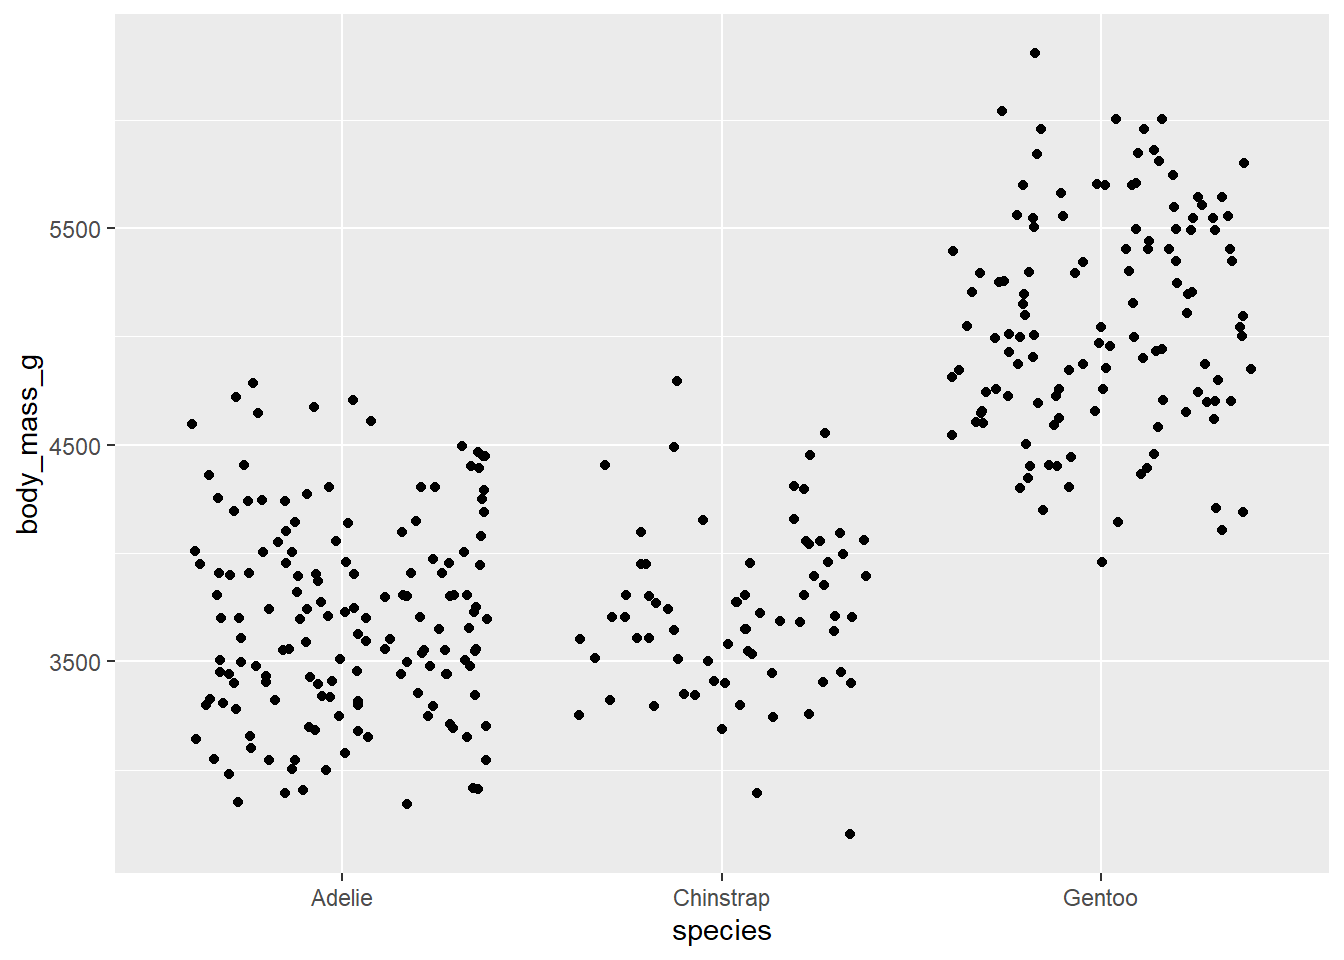
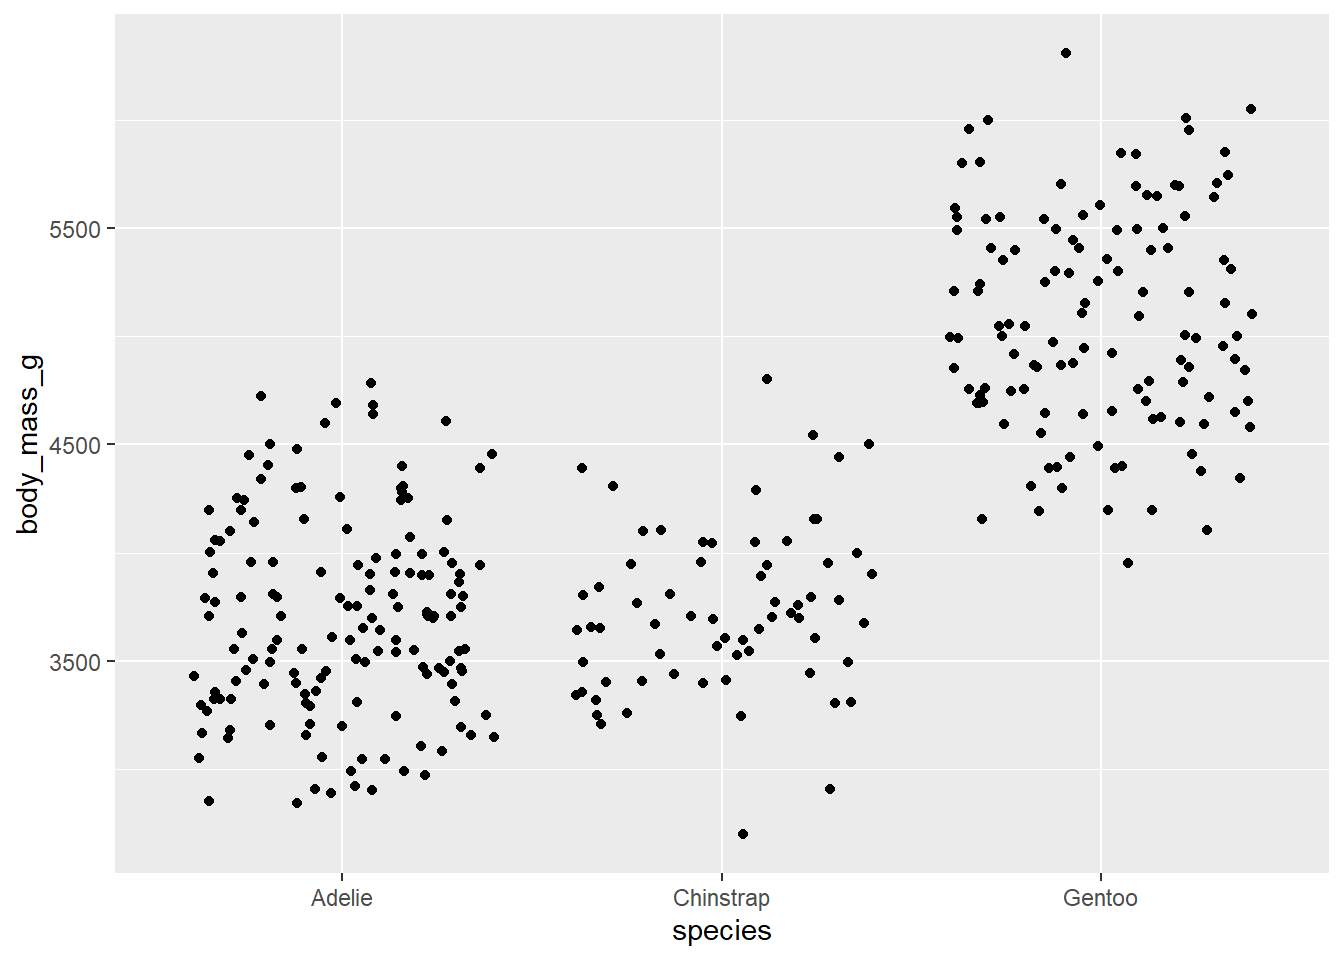
typo

diff --git a/docs/about.html b/docs/about.html
@@ -93,16 +93,12 @@ ul.task-list li input[type="checkbox"] {
           <div class="collapse navbar-collapse" id="navbarCollapse">
             <ul class="navbar-nav navbar-nav-scroll me-auto">
   <li class="nav-item">
-    <a class="nav-link" href="./index.html"> 
-<span class="menu-text">Home</span></a>
+    <a class="nav-link" href="./ggplot_exploration.html"> 
+<span class="menu-text">Palmers Pegnuins</span></a>
   </li>  
   <li class="nav-item">
     <a class="nav-link active" href="./about.html" aria-current="page"> 
 <span class="menu-text">About</span></a>
-  </li>  
-  <li class="nav-item">
-    <a class="nav-link" href="./ggplot_exploration.html"> 
-<span class="menu-text">Palmer’s Penguins</span></a>
   </li>  
 </ul>
           </div> <!-- /navcollapse -->
@@ -140,7 +136,7 @@ ul.task-list li input[type="checkbox"] {
 </header>
 
 
-<p>About this site</p>
+<p>This is a Lab project testing ggplot2 to visualize data from the palmer’s penguins data set. The other goal was to get this website published, so if your reading this it was somewhat successful.</p>
 
 
 

diff --git a/docs/index.html b/docs/index.html
@@ -93,16 +93,12 @@ ul.task-list li input[type="checkbox"] {
           <div class="collapse navbar-collapse" id="navbarCollapse">
             <ul class="navbar-nav navbar-nav-scroll me-auto">
   <li class="nav-item">
-    <a class="nav-link active" href="./index.html" aria-current="page"> 
-<span class="menu-text">Home</span></a>
+    <a class="nav-link" href="./ggplot_exploration.html"> 
+<span class="menu-text">Palmers Pegnuis</span></a>
   </li>  
   <li class="nav-item">
     <a class="nav-link" href="./about.html"> 
 <span class="menu-text">About</span></a>
-  </li>  
-  <li class="nav-item">
-    <a class="nav-link" href="./ggplot_exploration.html"> 
-<span class="menu-text">Palmer’s Penguins</span></a>
   </li>  
 </ul>
           </div> <!-- /navcollapse -->
